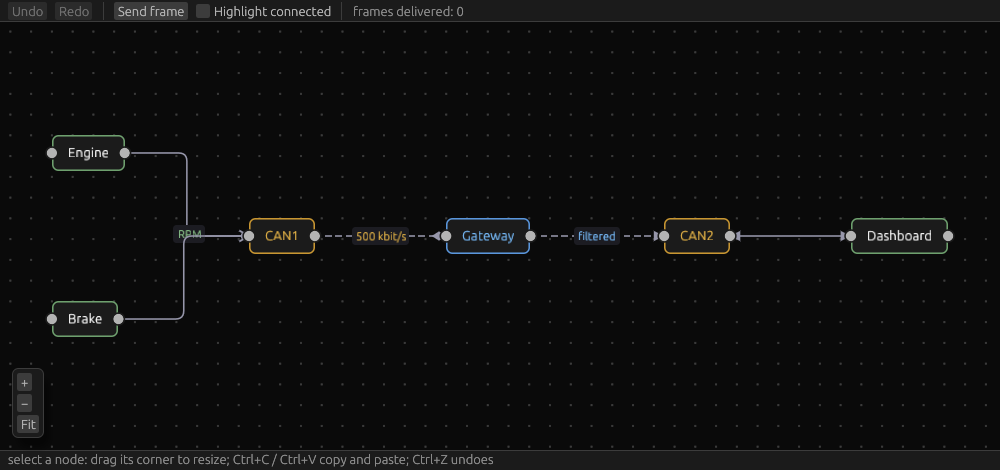
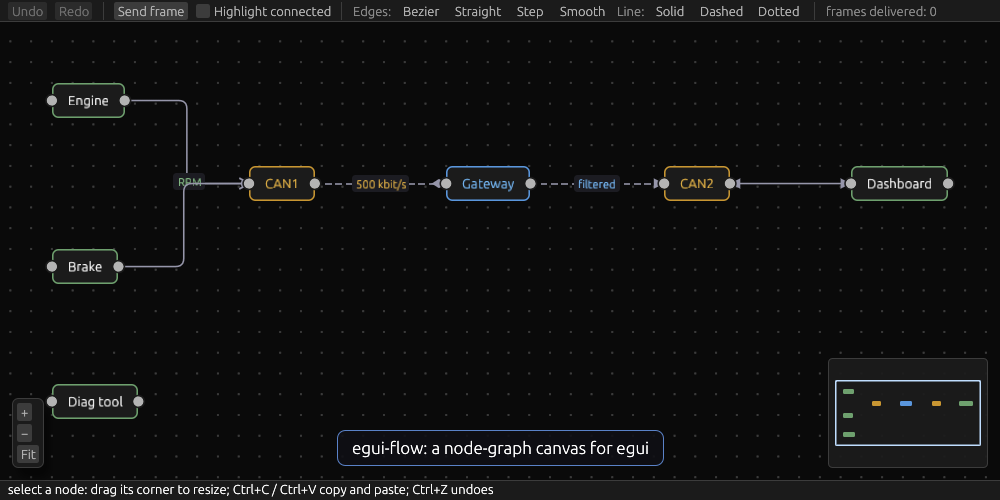
One tour GIF instead of six; undo/redo keep the current selection
- docs/media/tour.gif: a single 52 s take through every feature (pan/zoom, guides, connect,
  reconnect, edge and line styles, route pulses, resize, nudge, highlight, box select,
  copy/paste, undo/redo, delete), recorded from examples/gateway; README gets a caption table
- Editor: undo and redo no longer change what is selected (found while recording: undo
  brought back a stale edge selection). Items they restore keep their old selection.
- gateway example: Diag tool node to connect, minimap, edge-kind and line-style selectors,
  styling for newly connected edges

Claude-Session: https://claude.ai/code/session_01W9yUcoZgMbKU1sWKJ3HJq5

diff --git a/examples/gateway.rs b/examples/gateway.rs
@@ -100,6 +100,8 @@ impl App {
         let gw = add(&mut s, Role::Gateway, "Gateway", 380.0, 120.0);
         let can2 = add(&mut s, Role::Bus, "CAN2", 590.0, 120.0);
         let dash = add(&mut s, Role::Ecu, "Dashboard", 770.0, 120.0);
+        // Not wired up yet: drag from its right handle onto a bus to connect it.
+        let diag = add(&mut s, Role::Ecu, "Diag tool", 0.0, 330.0);
 
         let wire = |s: &mut FlowState<Data, ()>, a, b, kind| {
             let id = s.connect(a, b, ()).unwrap();
@@ -151,6 +153,7 @@ impl App {
                 ("gw", gw),
                 ("can2", can2),
                 ("dash", dash),
+                ("diag", diag),
             ],
             arrived: 0,
             canvas: egui::Rect::NOTHING,
@@ -195,11 +198,41 @@ impl App {
                 }
                 ui.checkbox(&mut self.highlight, "Highlight connected");
                 ui.separator();
+                ui.label("Edges:");
+                for (kind, name) in [
+                    (EdgeKind::Bezier, "Bezier"),
+                    (EdgeKind::Straight, "Straight"),
+                    (EdgeKind::Step, "Step"),
+                    (EdgeKind::SmoothStep, "Smooth"),
+                ] {
+                    let current = self.state.edges.iter().all(|e| e.kind == Some(kind));
+                    if ui.selectable_label(current, name).clicked() {
+                        self.state
+                            .edges
+                            .iter_mut()
+                            .for_each(|e| e.kind = Some(kind));
+                    }
+                }
+                ui.label("Line:");
+                for (style, name) in [
+                    (LineStyle::Solid, "Solid"),
+                    (LineStyle::Dashed, "Dashed"),
+                    (LineStyle::Dotted, "Dotted"),
+                ] {
+                    let current = self.state.edges.iter().all(|e| e.line_style == style);
+                    if ui.selectable_label(current, name).clicked() {
+                        self.state
+                            .edges
+                            .iter_mut()
+                            .for_each(|e| e.line_style = style);
+                    }
+                }
+                ui.separator();
                 ui.label(format!("frames delivered: {}", self.arrived));
             });
         });
         egui::TopBottomPanel::bottom("log").show(ctx, |ui| {
-            ui.label(&self.log);
+            ui.strong(&self.log);
         });
         egui::CentralPanel::default()
             .frame(egui::Frame::NONE)
@@ -209,6 +242,7 @@ impl App {
                     background: Background::Dots,
                     highlight_connected: self.highlight,
                     alignment_guides: true,
+                    minimap: true,
                     fit_view_on_init: true,
                     ..Default::default()
                 };
@@ -218,6 +252,15 @@ impl App {
                 self.editor.process(&mut self.state, &out.events);
                 for event in out.events {
                     match event {
+                        // Style edges drawn by hand like the ones built in `new`.
+                        FlowEvent::Connected(id) => {
+                            if let Some(e) = self.state.edge_mut(id) {
+                                e.kind = Some(EdgeKind::SmoothStep);
+                                e.arrow = true;
+                                e.color = Some(Color32::from_rgb(150, 150, 170));
+                            }
+                            self.log = "connected".into();
+                        }
                         FlowEvent::Reconnected { new, .. } => {
                             self.log = format!("edge now runs {:?} -> {:?}", new.source, new.target)
                         }

diff --git a/src/editor.rs b/src/editor.rs
@@ -1,5 +1,7 @@
 //! Undo/redo history and a clipboard, driven by the canvas's events.
 
+use std::collections::HashMap;
+
 use egui::{Vec2, vec2};
 
 use crate::events::FlowEvent;
@@ -19,9 +21,24 @@ impl<N: Clone, E: Clone> Snapshot<N, E> {
         }
     }
 
+    /// Restore the snapshot. Items that exist both now and in the snapshot keep
+    /// their current selection, so undo never changes what you have selected;
+    /// items it brings back keep the selection they had.
     fn apply(&self, state: &mut FlowState<N, E>) {
+        let node_sel: HashMap<_, _> = state.nodes.iter().map(|n| (n.id, n.selected)).collect();
+        let edge_sel: HashMap<_, _> = state.edges.iter().map(|e| (e.id, e.selected)).collect();
         state.nodes = self.nodes.clone();
         state.edges = self.edges.clone();
+        for n in &mut state.nodes {
+            if let Some(&sel) = node_sel.get(&n.id) {
+                n.selected = sel;
+            }
+        }
+        for e in &mut state.edges {
+            if let Some(&sel) = edge_sel.get(&e.id) {
+                e.selected = sel;
+            }
+        }
     }
 }
 
@@ -208,6 +225,50 @@ mod tests {
         assert!(ed.redo(&mut s));
         assert_eq!(s.nodes.len(), 3);
         assert!(!ed.redo(&mut s));
+    }
+
+    #[test]
+    fn undo_and_redo_leave_the_current_selection_alone() {
+        let mut s = state();
+        let a = s.nodes[0].id;
+        let b = s.add_node(pos2(100.0, 0.0), "b");
+        let e = s.connect(a, b, ()).unwrap();
+        s.node_mut(a).unwrap().selected = true;
+        let mut ed = Editor::new(&s); // snapshot: a selected
+        s.nodes[0].position = pos2(5.0, 5.0);
+        ed.commit(&s);
+
+        // Select something else, then undo the move.
+        s.clear_selection();
+        s.node_mut(b).unwrap().selected = true;
+        s.edge_mut(e).unwrap().selected = true;
+        assert!(ed.undo(&mut s));
+        assert_eq!(
+            s.node(a).unwrap().position,
+            pos2(0.0, 0.0),
+            "the move was undone"
+        );
+        assert!(!s.node(a).unwrap().selected, "a stays deselected");
+        assert!(s.node(b).unwrap().selected && s.edge(e).unwrap().selected);
+        assert!(ed.redo(&mut s));
+        assert!(s.node(b).unwrap().selected && !s.node(a).unwrap().selected);
+    }
+
+    #[test]
+    fn undoing_a_delete_brings_the_node_back_with_its_old_selection() {
+        let mut s = state();
+        let a = s.nodes[0].id;
+        s.node_mut(a).unwrap().selected = true;
+        let mut ed = Editor::new(&s);
+        s.delete_selected();
+        ed.commit(&s);
+        assert!(s.nodes.is_empty());
+        assert!(ed.undo(&mut s));
+        assert_eq!(s.nodes.len(), 1);
+        assert!(
+            s.node(a).unwrap().selected,
+            "restored node is selected again"
+        );
     }
 
     #[test]

diff --git a/README.md b/README.md
@@ -11,43 +11,32 @@ A [React Flow](https://reactflow.dev/)-style node-graph canvas for [egui](https:
 
 ```sh
 cargo run --example basic   # node graph canvas
-cargo run --example gateway # CAN-gateway demo: reconnect, route pulses, highlight
+cargo run --example gateway # the CAN-gateway demo from the tour below
 cargo run --example icons   # built-in icon gallery
 ```
 
 ## Feature tour
 
-Everything below is from [`examples/gateway`](examples/gateway.rs), recorded from the real app.
+One continuous take through the whole library, recorded from the real app ([`examples/gateway`](examples/gateway.rs)):
 
-### Reconnect edges
-Select an edge, then drag the ring on either end to another handle. It snaps back if you drop it on nothing.
+![A 50-second tour of egui-flow: pan and zoom, drag with alignment guides, connect, reconnect, edge and line styles, route pulses, resize, nudge, highlight, box select, copy and paste, undo and redo, delete](docs/media/tour.gif)
 
-![Dragging the end of an edge from CAN1 to CAN2](docs/media/reconnect.gif)
+In order, with where to look:
 
-### Route pulses
-`state.pulse_route(start, &[edges..], style)` animates a frame along a multi-hop route, leg by leg, picking forward or reverse for each edge. Pulses can have a shape, a trail, a hover label and an arrival event.
-
-![An arrow-shaped pulse travelling Engine to CAN1 to Gateway to CAN2 to Dashboard](docs/media/pulse.gif)
-
-### Resize nodes
-Selected nodes get grips on the corner and the right and bottom edges. Handles and edges follow.
-
-![Dragging a node's corner to make the Gateway node larger](docs/media/resize.gif)
-
-### Alignment guides
-With `FlowOptions::alignment_guides`, dragged nodes snap to other nodes' edges and centres, with guide lines.
-
-![Dragging Dashboard until it snaps to CAN2's left edge and Brake's top edge](docs/media/guides.gif)
-
-### Undo, redo, copy and paste
-`Editor` records history from the canvas events and handles Ctrl/Cmd+Z, Shift+Z, C, X, V and D.
-
-![Copying CAN1 and Gateway, pasting twice, then undoing and redoing](docs/media/editing.gif)
-
-### Highlight connected
-`FlowOptions::highlight_connected` dims everything not connected to the selected or hovered node.
-
-![Selecting nodes one after another with unrelated nodes and edges dimmed](docs/media/highlight.gif)
+| Caption | What it is |
+|---|---|
+| Pan and zoom | drag the background, wheel or pinch; `fit_view_animated` |
+| Drag nodes, alignment guides | `FlowOptions::alignment_guides`; Ctrl+Z undoes the move |
+| Connect | drag from one handle to another, with live validation and snapping |
+| Reconnect | select an edge and drag the ring on its end; `FlowEvent::Reconnected` |
+| Edge types, line styles | `EdgeKind::{Bezier, Straight, Step, SmoothStep}`, `LineStyle::{Solid, Dashed, Dotted}`, arrowheads, labels |
+| Route pulses | `state.pulse_route(..)`; shapes, trails, arrival events |
+| Resize | corner and edge grips on a selected node |
+| Nudge | arrow keys move the selection (Shift: 10 units) |
+| Highlight connected | `FlowOptions::highlight_connected` |
+| Box select | Shift-drag |
+| Copy, paste, undo, redo | `Editor`; Ctrl/Cmd+C, V, Z, Shift+Z |
+| Delete | removes the selection and its edges |
 
 ### Icons
 Painter-drawn, so they need no font and never render as empty boxes.
